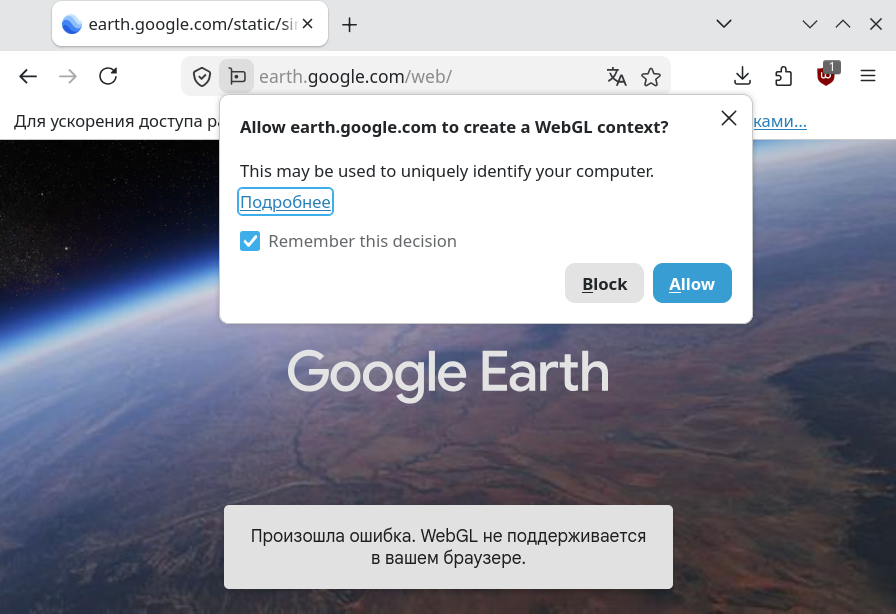
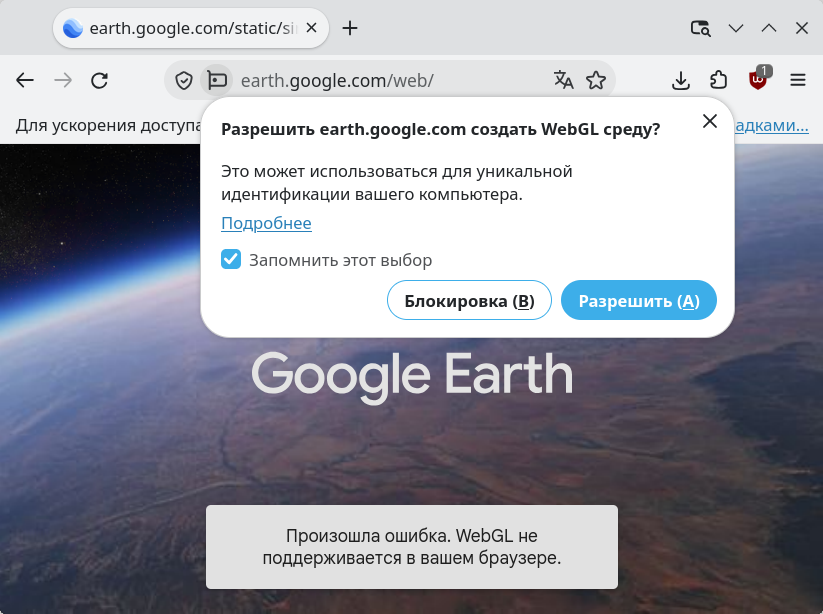
s/librewolf: Обновлена установка, настройки, редизайн Nova

diff --git a/content/software/librewolf/index.md b/content/software/librewolf/index.md
@@ -1,7 +1,7 @@
 ---
 title: LibreWolf
 publishDate: 2025-03-10T17:42:00Z
-lastmod: 2026-09-01T18:12:00Z
+lastmod: 2026-10-03T14:46:00Z
 ---
 
 ## Применение
@@ -19,8 +19,7 @@ LibreWolf можно описать как более чистую версию 
 Похожего результата можно добиться и в обычной версии Firefox с помощью
 конфигурации [arkenfox user.js]. Но это более трудоёмкая задача: в LibreWolf
 подходящие настройки применены по умолчанию. Однако разработкой занимаются
-энтузиасты, и иногда
-[что-то может ломаться](https://codeberg.org/librewolf/issues/issues/2459).
+энтузиасты, и иногда [что-то может ломаться](https://codeberg.org/librewolf/issues/issues/2459).
 Некоторые настройки могут доставлять неудобства и проблемы на сайтах, хотя их
 [можно отключить](#менее-строгие-настройки).
 
@@ -67,31 +66,26 @@ LibreWolf можно описать как более чистую версию 
 
 ### macOS
 
-Установите LibreWolf для macOS, используя [Homebrew](https://brew.sh), так как
-эта версия будет получать обновления автоматически:
+Вы можете скачать файл `.dmg` с [сайта](https://librewolf.net/installation/macos)
+или воспользоваться [Homebrew](https://brew.sh):
 
 ```sh
 brew install --cask librewolf
 ```
 
-Иначе можно скачать файл `.dmg` с [сайта](https://librewolf.net/installation/macos),
-но эту версию вам нужно обновлять вручную.
+Оба варианта установки будут получать обновления автоматически.
 
 ### Linux
 
-Проще всего установить LibreWolf для Linux через [Flatpak]. Обратите внимание,
-что эта версия будет находиться в песочнице, а некоторые взаимодействия с
-системой будут ограничены.
-
-Альтернативно можно установить через репозитории дистрибутива или [AppImage].
-
-[Flatpak]: https://flathub.org/apps/io.gitlab.librewolf-community
-[AppImage]: https://librewolf.net/installation/linux/#appimage
+- Arch Linux и все производные (CachyOS, EndeavourOS): `sudo pacman -S librewolf`
+- Debian и все производные (Ubuntu, Mint): [Добавьте сторонний репозиторий](https://librewolf.net/installation/debian/).
+- [Flatpak](https://flathub.org/apps/io.gitlab.librewolf-community)
+- [AppImage](https://librewolf.net/installation/linux/#appimage)
 
 ### Android
 
 Разработчики не планируют выпускать LibreWolf для Android. В качестве
-альтернативы рекомендуется использовать браузер [IronFox] со схожими целями.
+альтернативы рекомендуется использовать схожий по духу браузер [IronFox].
 
 [IronFox]: /collections/browsers-mobile#ironfox
 
@@ -128,7 +122,7 @@ brew install --cask librewolf
 очистку данных. В этом же разделе настроек ниже уберите галочку с
 **«Удалять историю при закрытии LibreWolf»**.
 
-### Всегда светлая тема, часовой пояс UTC, ОС Windows, фиксированный размер окна при запуске
+### Всегда светлая тема, часовой пояс UTC, фиксированный размер окна при запуске
 
 Это нужно для снижения идентификации с помощью определённых данных, отправляемых
 на сайты. За это отвечает настройка **ResistFingerprinting**, которая делает ваш
@@ -136,8 +130,8 @@ brew install --cask librewolf
 которым вас всё равно можно идентифицировать, поэтому отключение данной
 настройки не приведёт к существенной потере конфиденциальности.
 
-> Настройки браузера → LibreWolf (`about:preferences#librewolf`) → Отслеживание
-→ Отключить «Препятствовать созданию отпечатков (ResistFingerprinting)»
+> Настройки браузера → Приватность и защита (`about:preferences#privacy`) → Цифровой отпечаток
+→ Отключить защиту от отслеживания по цифровым отпечаткам.
 
 ### WebGL
 
@@ -146,21 +140,21 @@ brew install --cask librewolf
 может использоваться для [уникальной идентификации](https://browserleaks.com/webgl).
 
 Когда сайту требуется WebGL, в адресной строке появляется кнопка, где вы
-сможете разрешить эту функцию для конкретного сайта. В настройках LibreWolf
-можно включить WebGL глобально, но это не рекомендуется — как правило,
+сможете разрешить эту функцию для конкретного сайта. В настройках приватности
+LibreWolf можно включить WebGL глобально, но это не рекомендуется — как правило,
 большинство сайтов будут работать и без него.
 
 ![Демонстрация разрешения WebGL для конкретного сайта](webgl.webp)
 
 [WebGL]: https://ru.wikipedia.org/wiki/WebGL
 
-### Синхронизация Firefox Sync
+### Синхронизация
 
 Пользуетесь синхронизацией Firefox через аккаунт Mozilla? Вы можете использовать
 её точно так же и в LibreWolf:
 
-> Настройки браузера → LibreWolf (`about:preferences#librewolf`) → Поведение
-браузера → Включить «Синхронизация Firefox» и перезапустить браузер.
+> Настройки браузера → Аккаунт и синхронизация (`about:preferences#sync`) →
+Включить синхронизацию Firefox → Перезапустить браузер.
 
 ## Вопросы
 
